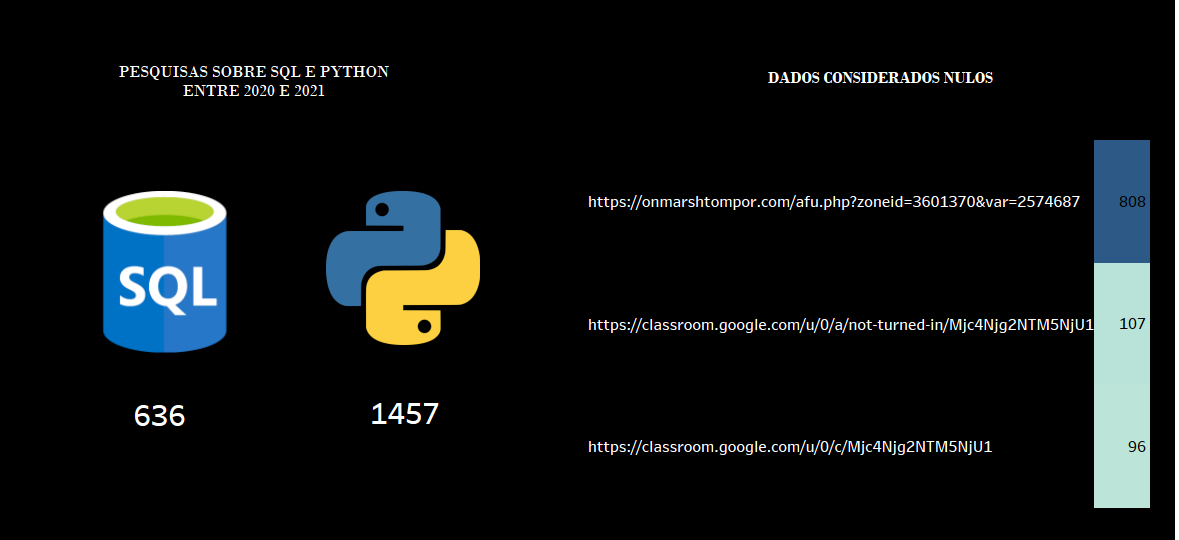
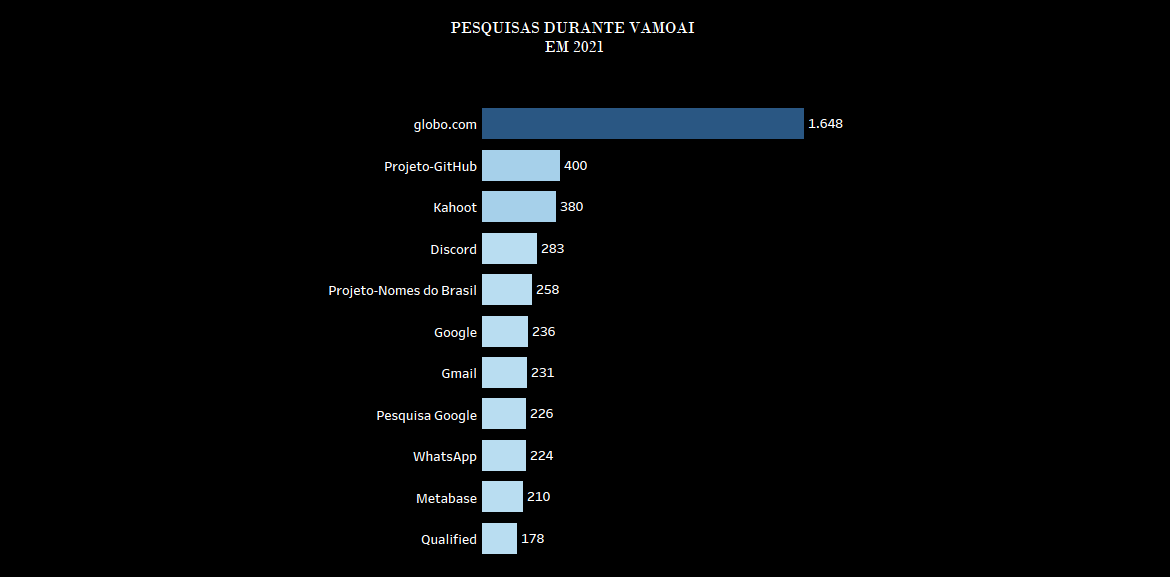
troca de imagens

diff --git a/README.md b/README.md
@@ -23,57 +23,60 @@ Descobri meu lado pesquisador, quando realizei um estágio no Instituto Brasilei
 A primeira fonte de dados que escolhi foi o histórico do Google.  
   
 ![alt text](imagem-02.PNG)  
+
+![alt text](imagem-03.PNG) 
+
   
 Estes gráficos mostram a minha quantidade de acesso e que tipo de conteúdo eu acessei, sendo o primeiro um gráfico geral que mostra um acesso enorme a Globo.com, pesquisas no buscador do Google e acesso a e-mail e rede social. Esta minha atitude de acessar em larga escala o site da Globo.com é reflexo de uma atitude que adquiri num estágio que realizei durante a Universidade, na qual trabalhei com bibliotecários que me falaram que esta prática de ler jornais, ajuda-nos a estarmos sempre atentos ao que acontece no mundo e este também é um papel da minha profissão de Bibliotecária.  
 O segundo gráfico está representando o meu comportamento de acesso, mediante o início de uma pandemia e a finalização da minha graduação em Biblioteconomia, em que a página de nome Gupy (página de recrutamento e seleção) aparece como um grande acesso, representando a minha procura por uma vaga de emprego. Contudo, neste mesmo período de finalização de uma graduação, é possível ver que já comecei a pesquisar sobre SQL e busquei uma pós graduação em análise de dados. Comecei a me interessar pela tecnologia, por meio de matérias que falavam sobre a falta de profissionais qualificados.  
 
   
-![alt text](imagem-03.PNG)
+![alt text](imagem-04.PNG)
 
 No segundo semestre de 2020, é possível perceber que houve uma queda na minha procura relacionada a vagas e passei a utilizar variadas redes sociais. Isto tem relação com um trabalho autônomo de venda de quadros e que foi uma saída na qual consegui conciliar a pós graduação em análise de dados, com este trabalho. Tudo estava correndo desta maneira, até conhecer o VamoAI e já no ano de 2021 minhas pesquisas no google mudarem drasticamente. Continuando a Globo.com ainda com maior acesso. Porém, minhas pesquisas relacionadas aos repositórios do GitHub, interações no Discord, além do Metabase e Qualified, fizeram parte deste processo de aprendizado no VAMOAI.  
   
 
-![alt text](imagem-04.PNG)
+![alt text](imagem-05.PNG)
 
 Sendo assim, demonstro duas pesquisas que estão destacadas como as linguagens que mais gosto. Porém, tenho um carinho especial por SQL, por me lembrar de alguns conteúdos que aprendi na faculdade e que também me fizeram chegar ao VAMOAI. Para minha surpresa, o Python ultrapassou o SQL em número de pesquisas.  
   
 Ainda falando sobre meu lado pesquisadora. Durante a construção deste case percebi que os dados nulos estavam presentes em grande número nas pesquisas do google. Com isso, na etapa de limpeza dos dados, busquei apagar os dados nulos, mas ainda assim eles permaneciam presentes. Com isso, fui analisar o conteúdo desses dados que tinham o título de "nulos" e por meio de pesquisas, constatei que se tratavam de dados de anúncios, no qual ao navegarmos em determinados sites com anúncios, somos redirecionados a páginas apenas de anúncios. Além disto, existem nesta lista de url,páginas de  acesso a bancos e páginas na qual realizamos alguma inclusão de dados pessoais, como podemos ver na imagem abaixo.  
   
 
-![alt text](imagem-05.PNG)  
+![alt text](imagem-06.PNG)  
   
 Além dos dados considerados nulos, estavam em maior acesso, as Novas Guias. Inicialmente não considerei importante, mas ao analisar as linhas presentes e realizando pesquisas sobre o conteúdo, constatei que se tratavam de extensões instaladas no Chrome. E isso justificava o grande volume de acesso.  
   
-![alt text](imagem-06.PNG)  
+![alt text](imagem-07.PNG)  
   
 Quero destacar nos meus dados do Youtube que entre o período de 2020 e 2021, passei a aconsumir mais conteúdos relacionados a tecnologia. Além disso, em grande destaque tem a live de Simone e Simaria, na qual escutei muito nas horas vagas, e a live de Marcelo Falcão que é o meu preferido. Sendo assim, é possível notar que o número de visualizações é muito pequeno. Isto se justifica, devido a não me limitar a utilizar sempre uma conta vinculada as minhas pesquisas e também a ter caído muito a minha interação com conteúdos que não tinham relação com o curso do VAMOAI. Passei a consumir coisas variadas, que também são resultados de pesquisas variadas sobre tecnologia.  
   
 
-![alt text](imagem-07.PNG)  
+![alt text](imagem-08.PNG)  
   
 Destaco que o meu número total de visualizações no youtube é de 2293. Sendo 1875 conteúdos distintos. Então, se confirma o meu consumo sobre conteúdos variados.  
   
 
-![alt text](imagem-08.PNG)  
+![alt text](imagem-09.PNG)  
 
 Antes de entrar no VAMOAI já realizava muita pesquisa sobre dados, como justificativa da pós graduação que fazia, sobre análise de dados e do meu interesse em tecnologia. Então, apresento, o antes e depois de assuntos de tecnologia que passei a ver no Youtube. É interessante ressaltar que, SQL foi uma porta para que cada vez mais as minhas pesquisas sobre dados, aumentassem.  
   
 Falando de Instagram, destaco uma mudança drástica de páginas que passei a curtir quando fazia a graduação em Biblioteconomia e quando passei a estudar no VAMOAI.
 
-![alt text](imagem-09.PNG) 
+![alt text](imagem-10.PNG) 
 
 Esta queda de páginas seguidas, também é justificada com a minha redução de acesso a redes sociais.  
 
-![alt text](imagem-10.PNG) 
+![alt text](imagem-11.PNG) 
 
 Destaco também as minhas curtidas, que são em sua maioria para membros da minha família, que neste caso é a minhã irmã e esposo em maior número. Contudo, sendo ainda de pequeno volume. Ou seja, eu me desconectei para me dedicar apenas ao VAMOAI, pois apostei muito que aprenderia muita coisa no percurso que fiz, e realmente estava certa.  
 
-![alt text](imagem-11.PNG) 
+![alt text](imagem-12.PNG) 
 
 Trago agora o que mais curti neste período entre 2020 e 2021. Para minha surpresa ouvi muito as músicas do Dennis DJ e não me surpreendendo, as do Rappa, que me acompanharam antes deste período que os dados mostram.  
 As músicas me movem para estudar e influênciam no meu humor. Com isso, meus albúns mostram o que eu mais gosto de escutar e o que me impulsiona a querer sempre mais. Destaco as músicas do Marcelo Falcão, que possuem um conteúdo que reflete sobre diversas realidades da sociedade, como pobreza, sofrimento por não ter chuva no sertão, e isto me conecta com o lugar que nasci, pois vim de uma cidade que não tinha muitas oportunidades de trabalho, por ser um interior e é isto trouxe a minha família ao Rio de Janeiro. Hoje, sou muito feliz com a história que construí aqui no Rio de Janeiro. Uma história carregada de dificuldades, mas muita vitória!  
   
-![alt text](imagem-12.PNG)
+![alt text](imagem-13.PNG)
 
 ## SOFT SKILLS UTILIZADAS:
 
@@ -86,7 +89,7 @@ Utilizei os princípios do Scrum e por meio da ferramenta do Trello estruturei c
 ## AGRADECIMENTOS:
 > ### Agradeço ao iFood a oportunidade de realizar o curso do VAMOAI e a minha mentora Marcia Castagna que foi muito solicita em todo o processo.Desejo que este case traga auxilie as pessoas a conhecerem os seus dados e a construir histórias a partir disto. Foi muito construtivo viver esta experiência de VAMOAI! 
 
-### ACESSO AO DASHBOARD [AQUI](https://public.tableau.com/app/profile/mari.n.michely.melo.de.lima.do.carmo/viz/Case_Marian_Ifood/PAINEL).
+### ACESSO AO DASHBOARD [AQUI](https://public.tableau.com/app/profile/mari.n.michely.melo.de.lima.do.carmo/viz/Case_Marian_Ifood/PAINEL?publish=yes).
 
 
 ## Referências:
